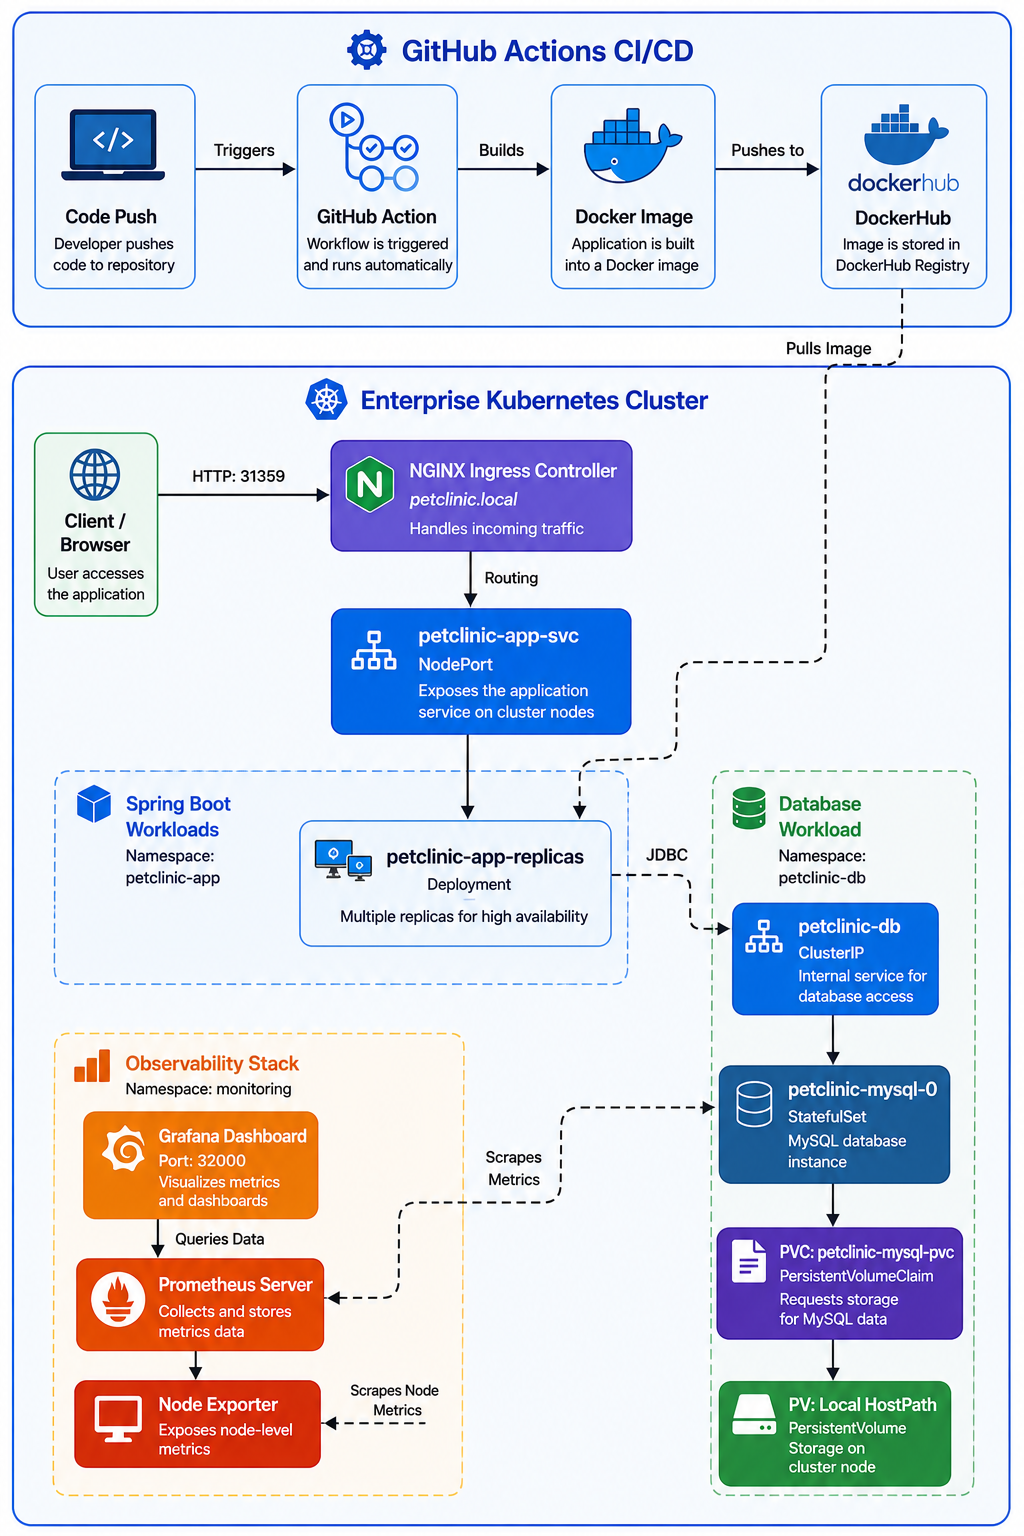
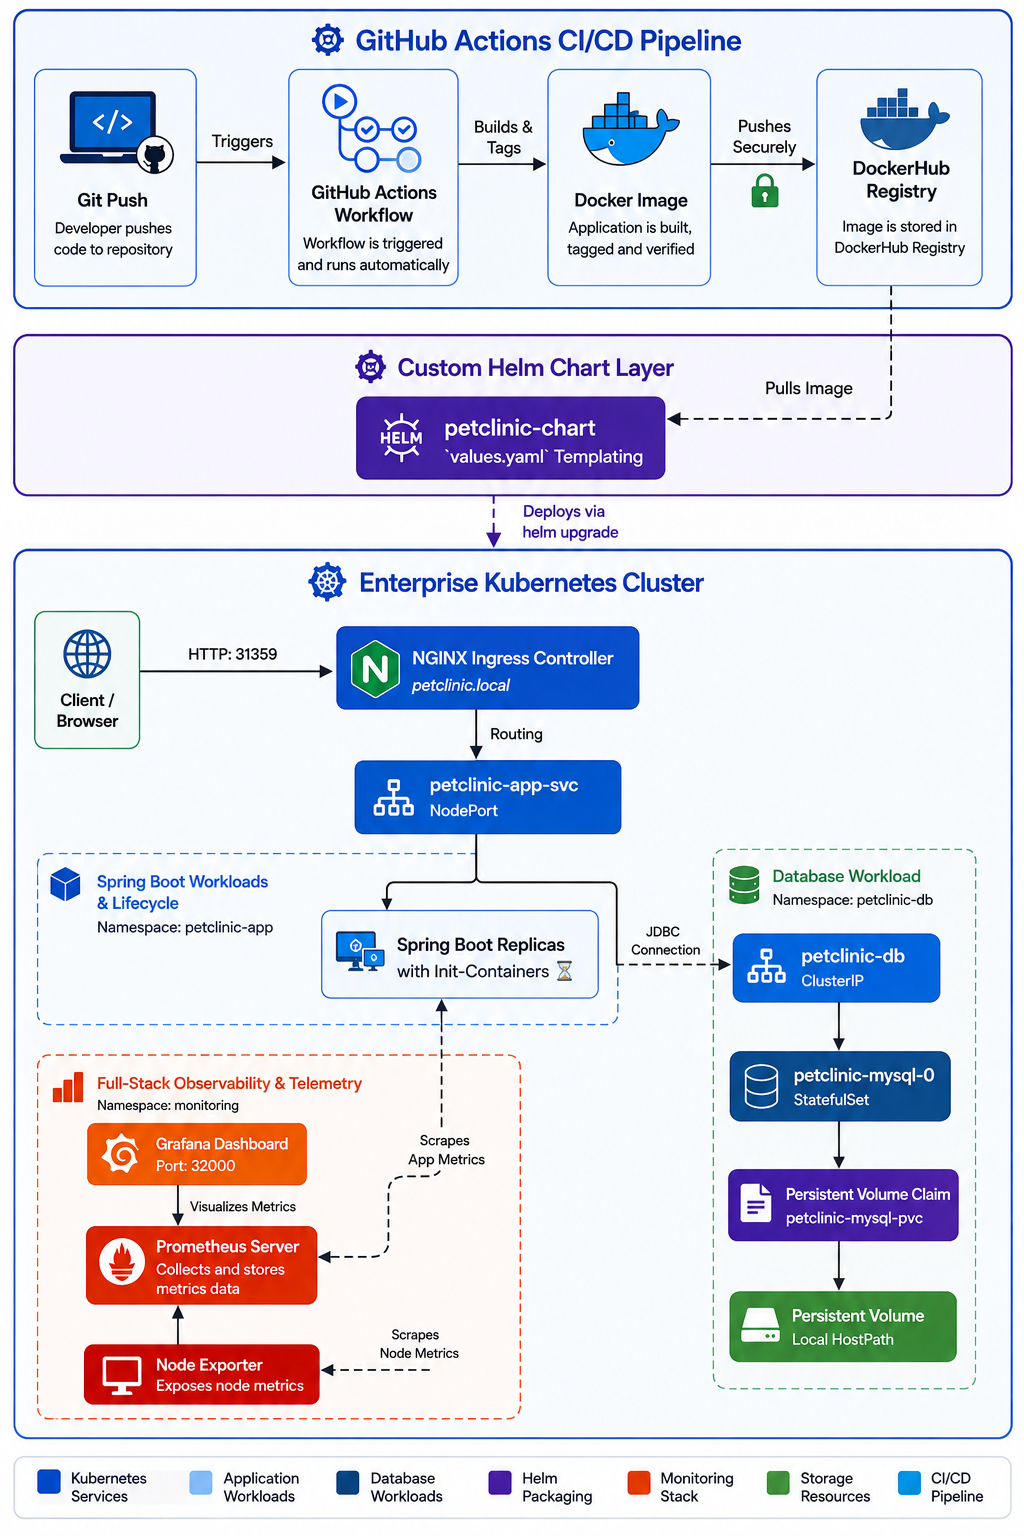
feat: add Custom Helm Chart, Init-Containers, and complete enterprise documentation

diff --git a/README.md b/README.md
@@ -3,6 +3,7 @@
   <p>
     <img src="https://img.shields.io/badge/Kubernetes-Orchestration-326CE5?style=for-the-badge&logo=kubernetes&logoColor=white" alt="Kubernetes" />
     <img src="https://img.shields.io/badge/Docker-Containerized-2496ED?style=for-the-badge&logo=docker&logoColor=white" alt="Docker" />
+    <img src="https://img.shields.io/badge/Helm-Packaging-0F1689?style=for-the-badge&logo=helm&logoColor=white" alt="Helm" />
     <img src="https://img.shields.io/badge/GitHub_Actions-CI%2FCD-2088FF?style=for-the-badge&logo=github-actions&logoColor=white" alt="GitHub Actions" />
     <img src="https://img.shields.io/badge/Prometheus-Monitoring-E6522C?style=for-the-badge&logo=prometheus&logoColor=white" alt="Prometheus" />
     <img src="https://img.shields.io/badge/Grafana-Observability-F46800?style=for-the-badge&logo=grafana&logoColor=white" alt="Grafana" />
@@ -18,7 +19,7 @@
 ---
 
 ## 📖 1. Project Overview
-This repository demonstrates an **Enterprise-Grade Infrastructure setup** for the official Spring Petclinic application. The project has evolved from optimized local Docker containerization into a highly available, production-ready **Kubernetes (K8s)** architecture. It is fully equipped with persistent storage, zero-trust network isolation, domain-based Ingress routing, automated **CI/CD pipelines via GitHub Actions**, and a complete **Observability stack using Prometheus and Grafana**.
+This repository demonstrates an **Enterprise-Grade Infrastructure setup** for the official Spring Petclinic application. The project has evolved from optimized local Docker containerization into a highly available, production-ready **Kubernetes (K8s)** architecture. It is fully equipped with persistent storage, zero-trust network isolation, domain-based Ingress routing, automated **CI/CD pipelines via GitHub Actions**, a complete **Observability stack using Prometheus and Grafana**, and elegantly packaged using **Custom Helm Charts** for seamless, dynamic deployments.
 
 ## 🏛 2. Architecture Diagram
 
@@ -33,24 +34,31 @@ This repository demonstrates an **Enterprise-Grade Infrastructure setup** for th
 * **Containerization:** Docker, Multi-Stage Builds (Alpine Linux)
 * **Local Orchestration:** Docker Compose
 * **Enterprise Orchestration:** Kubernetes (K8s)
+* **Infrastructure Packaging:** Helm (Custom Charts & Dynamic `values.yaml` Templating)
 * **Database:** MySQL 8.0 (StatefulSets, PV/PVCs for Data Persistence)
 * **Networking & Routing:** NGINX Ingress Controller, K8s Services
-* **Security:** Non-Root User execution, K8s Zero-Trust Network Policies
+* **Lifecycle & Security:** K8s Init-Containers (Startup Synchronization), Non-Root Execution, Zero-Trust Network Policies
 * **CI/CD Automation:** GitHub Actions
 * **Observability & Monitoring:** Prometheus, Grafana, Node Exporter (Deployed via Helm)
+
 ## 📂 4. Repository Structure
+
 ```text
 .
 ├── .github/                    # GitHub Actions CI/CD Workflows
 │   └── workflows/
 │       └── ci-cd.yaml          # Automated Build & Push pipeline definition
 ├── deploy/                     # Infrastructure deployment manifests
-│   └── k8s/                    # Kubernetes configuration files
-│       ├── 01-mysql-storage.yaml    # PV & PVC configurations
-│       ├── 02-mysql.yaml            # StatefulSet & ClusterIP Service
-│       ├── 03-app.yaml              # Deployment & NodePort Service
-│       ├── 04-network-policy.yaml   # Zero-Trust Database Isolation
-│       └── 05-ingress.yaml          # NGINX Ingress Controller setup
+│   ├── k8s/                    # Original Kubernetes configuration files
+│   │   ├── 01-mysql-storage.yaml    # PV & PVC configurations
+│   │   ├── 02-mysql.yaml            # StatefulSet & ClusterIP Service
+│   │   ├── 03-app.yaml              # Deployment (with Init-Containers) & Service
+│   │   ├── 04-network-policy.yaml   # Zero-Trust Database Isolation
+│   │   └── 05-ingress.yaml          # NGINX Ingress Controller setup
+│   └── petclinic-chart/        # Custom Helm Chart for dynamic deployments
+│       ├── Chart.yaml          # Helm chart metadata
+│       ├── values.yaml         # Centralized dynamic configuration (e.g., replicas)
+│       └── templates/          # Parameterized Kubernetes manifests
 ├── docs/                       # Project documentation assets
 │   └── images/                 # Execution screenshots and diagrams
 │       ├── 2a-compute-resources.png
@@ -65,6 +73,8 @@ This repository demonstrates an **Enterprise-Grade Infrastructure setup** for th
 │       ├── dockerhub-images.png
 │       ├── github-actions-success.png
 │       ├── grafana-dashboard.png
+│       ├── helm-pods-running.png    # NEW: Replicas and Init-Container stability
+│       ├── helm-release.png         # NEW: Helm chart deployment status
 │       └── project-diagram.png
 ├── src/                        # Original Spring Petclinic Source Code
 ├── Dockerfile                  # Multi-stage, secure container definition
@@ -81,7 +91,7 @@ To fully deploy and test this infrastructure, ensure you have the following inst
 * **A running Kubernetes Cluster** (e.g., `kubeadm`, `minikube`, or cloud-managed like EKS/AKS)
 * [`kubectl` CLI](https://kubernetes.io/docs/tasks/tools/) configured to communicate with your cluster
 * **NGINX Ingress Controller** installed on your K8s cluster
-* [**Helm CLI**](https://helm.sh/docs/intro/install/) (Required for deploying the Observability stack)
+* [**Helm CLI**](https://helm.sh/docs/intro/install/) (Required for deploying the custom application chart and the Observability stack)
 
 ## 🐳 6. Local Execution Guide (Docker Compose)
 *Use this method for local development and testing.*
@@ -105,45 +115,42 @@ Ensure both containers petclinic-web and petclinic-mysql show a (healthy) status
 4. Access the application:
 Open your browser and navigate to: http://localhost:8080
 
-☸ 7. Enterprise Deployment Guide (Kubernetes)
-Use this method to deploy the highly available, production-ready cluster.
+5. Stop and clean up:
+```bash
+docker-compose down -v
+```
 
-1. Apply the storage configurations (PV & PVC):
+☸ 7. Enterprise Deployment Guide (Kubernetes)
+Use this method to deploy the highly available, production-ready cluster using our custom Helm chart.
+
+1. Deploy the application via Helm:
+Instead of applying multiple YAML files manually, deploy the entire stack (Database, App, Services, Network Policies, and Ingress) with a single command:
 ```bash
-kubectl apply -f deploy/k8s/01-mysql-storage.yaml
+helm install my-petclinic ./deploy/petclinic-chart
 ```
-2. Deploy the database and application workloads:
-```bash
-kubectl apply -f deploy/k8s/02-mysql.yaml
-kubectl apply -f deploy/k8s/03-app.yaml
-```
-3. Apply Network Policies and Ingress routing:
-```bash
-kubectl apply -f deploy/k8s/04-network-policy.yaml
-kubectl apply -f deploy/k8s/05-ingress.yaml
-```
-4. Configure local DNS resolution:
+2. Configure local DNS resolution:
 Add the following line to your /etc/hosts file (Linux/Mac) or C:\Windows\System32\drivers\etc\hosts (Windows) to resolve the custom Ingress domain:
 # Replace the IP with your actual Kubernetes Node IP
 192.168.92.129  petclinic.local
 
-5. Verify cluster health:
+3. Verify cluster health:
 ```bash
 kubectl get pods,svc,ingress
 ```
-Ensure all pods are Running and the Ingress controller has successfully mapped the host.
+Ensure all pods are Running. (Note: The application pods will smoothly wait in Init state until the MySQL database is fully ready).
 
-6. Access the application:
+4. Access the application:
 Open your browser and navigate to the assigned Ingress NodePort: http://petclinic.local:31359
 
-**8. Deploy the Observability Stack (Optional):**
+**📊 8. Deploy the Observability Stack (Optional):**
 Deploy Prometheus and Grafana using the official Helm chart:
 ```bash
 helm repo add prometheus-community [https://prometheus-community.github.io/helm-charts](https://prometheus-community.github.io/helm-charts)
 helm repo update
 helm install monitoring-stack prometheus-community/kube-prometheus-stack --namespace monitoring --create-namespace
 ```
-8. Access Grafana Dashboards:
+
+📈 9. Access Grafana Dashboards:
 Retrieve the auto-generated admin password and port-forward the Grafana service:
 ```bash
 # Extract Grafana Admin Password
@@ -156,7 +163,7 @@ Navigate to http://localhost:32000 and log in with username admin and the extrac
 
 > 💡 **Developer Note (CI/CD):** If you fork this repository, the GitHub Actions pipeline is ready to use. Simply add `DOCKER_USERNAME` and `DOCKER_PASSWORD` to your repository's GitHub Secrets to enable automated builds and pushes to your own DockerHub registry.
 
-## 🚀 9. Implementation Stages & Verification
+## 🚀 10. Implementation Stages & Verification
 
 ### 🐳 Part A: Docker Containerization Phase
 
@@ -251,22 +258,43 @@ Deployed a comprehensive monitoring stack using the official `kube-prometheus-st
   <em><b>Figure 11:</b> Grafana dashboard visualizing real-time compute resources and cluster utilization.</em>
 </p>
 
-## ⚠ 10. Challenges Encountered & Solutions
+---
+
+### 📦 Part E: Helm Chart Packaging & Lifecycle Management
+
+#### Stage 1: Dynamic Application Deployment
+Packaged the raw Kubernetes YAML manifests into a **Custom Helm Chart** (`petclinic-chart`). This allows for single-command deployments and dynamic configuration management (e.g., scaling replicas dynamically via `values.yaml` templating) rather than hardcoding values in static files.
+<p align="center">
+  <img src="docs/images/helm-release.png" width="90%">
+  <br>
+  <em><b>Figure 12:</b> Successful Helm chart deployment creating a managed release for the Petclinic infrastructure.</em>
+</p>
+
+#### Stage 2: Startup Synchronization (Init-Containers)
+Resolved the classic `CrashLoopBackOff` race condition by implementing Kubernetes **Init-Containers**. The application pods now intelligently wait for the MySQL database to become fully operational on port 3306 before initializing, ensuring a smooth, crash-free startup sequence across all dynamically scaled replicas.
+<p align="center">
+  <img src="docs/images/helm-pods-running.png" width="90%">
+  <br>
+  <em><b>Figure 13:</b> Application and Database pods running flawlessly, stabilized by Init-Containers and dynamically scaled to 3 replicas.</em>
+</p>
+
+## ⚠ 11. Challenges Encountered & Solutions
 * **Challenge:** Large image size and slow build times during initial containerization.
   * **Solution:** Implemented **Multi-Stage Builds** using Alpine Linux, leveraging layer caching to download dependencies only once and reducing the final footprint drastically.
 * **Challenge:** Guaranteeing database data persistence across ephemeral Kubernetes Pod restarts.
   * **Solution:** Transitioned from Deployments to **StatefulSets** for the MySQL database and implemented **Persistent Volumes (PV) & PVCs** mapped to isolated host directories.
 * **Challenge:** Securely routing external traffic to the application while completely isolating the database from public access.
   * **Solution:** Utilized an **NGINX Ingress Controller** for clean domain-based routing (`petclinic.local`) and applied strict **Zero-Trust Network Policies** that restrict database access exclusively to the application pods.
+* **Challenge:** Application pods entering a `CrashLoopBackOff` state due to a race condition where they initialize before the database is fully ready.
+  * **Solution:** Implemented Kubernetes **Init-Containers** within the Custom Helm Chart to actively poll the database port, ensuring the main application container only boots after a successful connection to MySQL is established.
 
-## 🔭 11. Future Enhancements
+## 🔭 12. Future Enhancements
 - [x] Migrate local orchestration to an **Enterprise Kubernetes Cluster**.
 - [x] Establish automated CI/CD pipelines via **GitHub Actions**.
 - [x] Integrate a full observability and telemetry stack (**Prometheus & Grafana** via Helm).
-- [ ] Package custom Kubernetes manifests using **Helm Charts** for dynamic deployments.
+- [x] Package custom Kubernetes manifests using **Helm Charts** for dynamic deployments.
 - [ ] Implement Infrastructure as Code (IaC) provisioning pipelines with **Terraform & Ansible**.
-
-## 📬 12. Contact & Connect
+## 📬 13. Contact & Connect
 
 <div align="center">
   <h3>🏗 Architected & Deployed by</h3>
